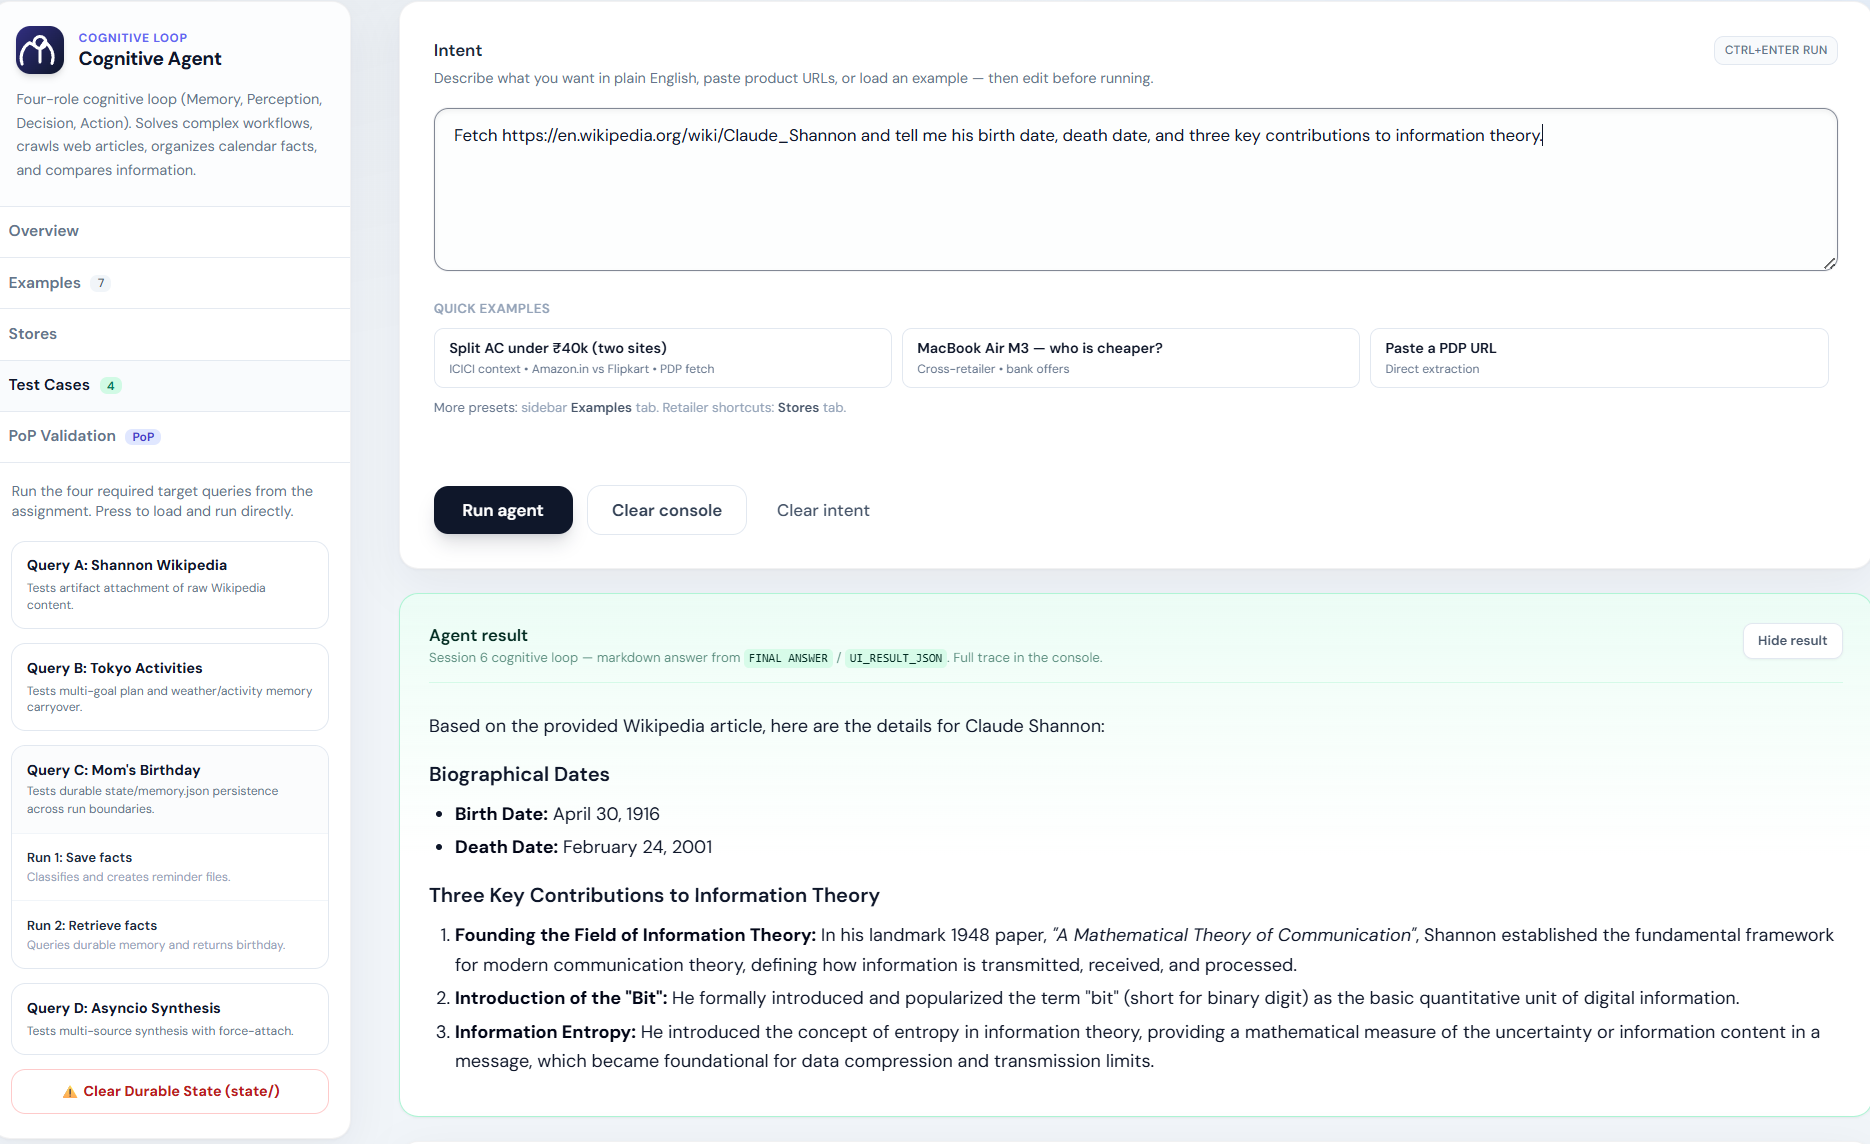
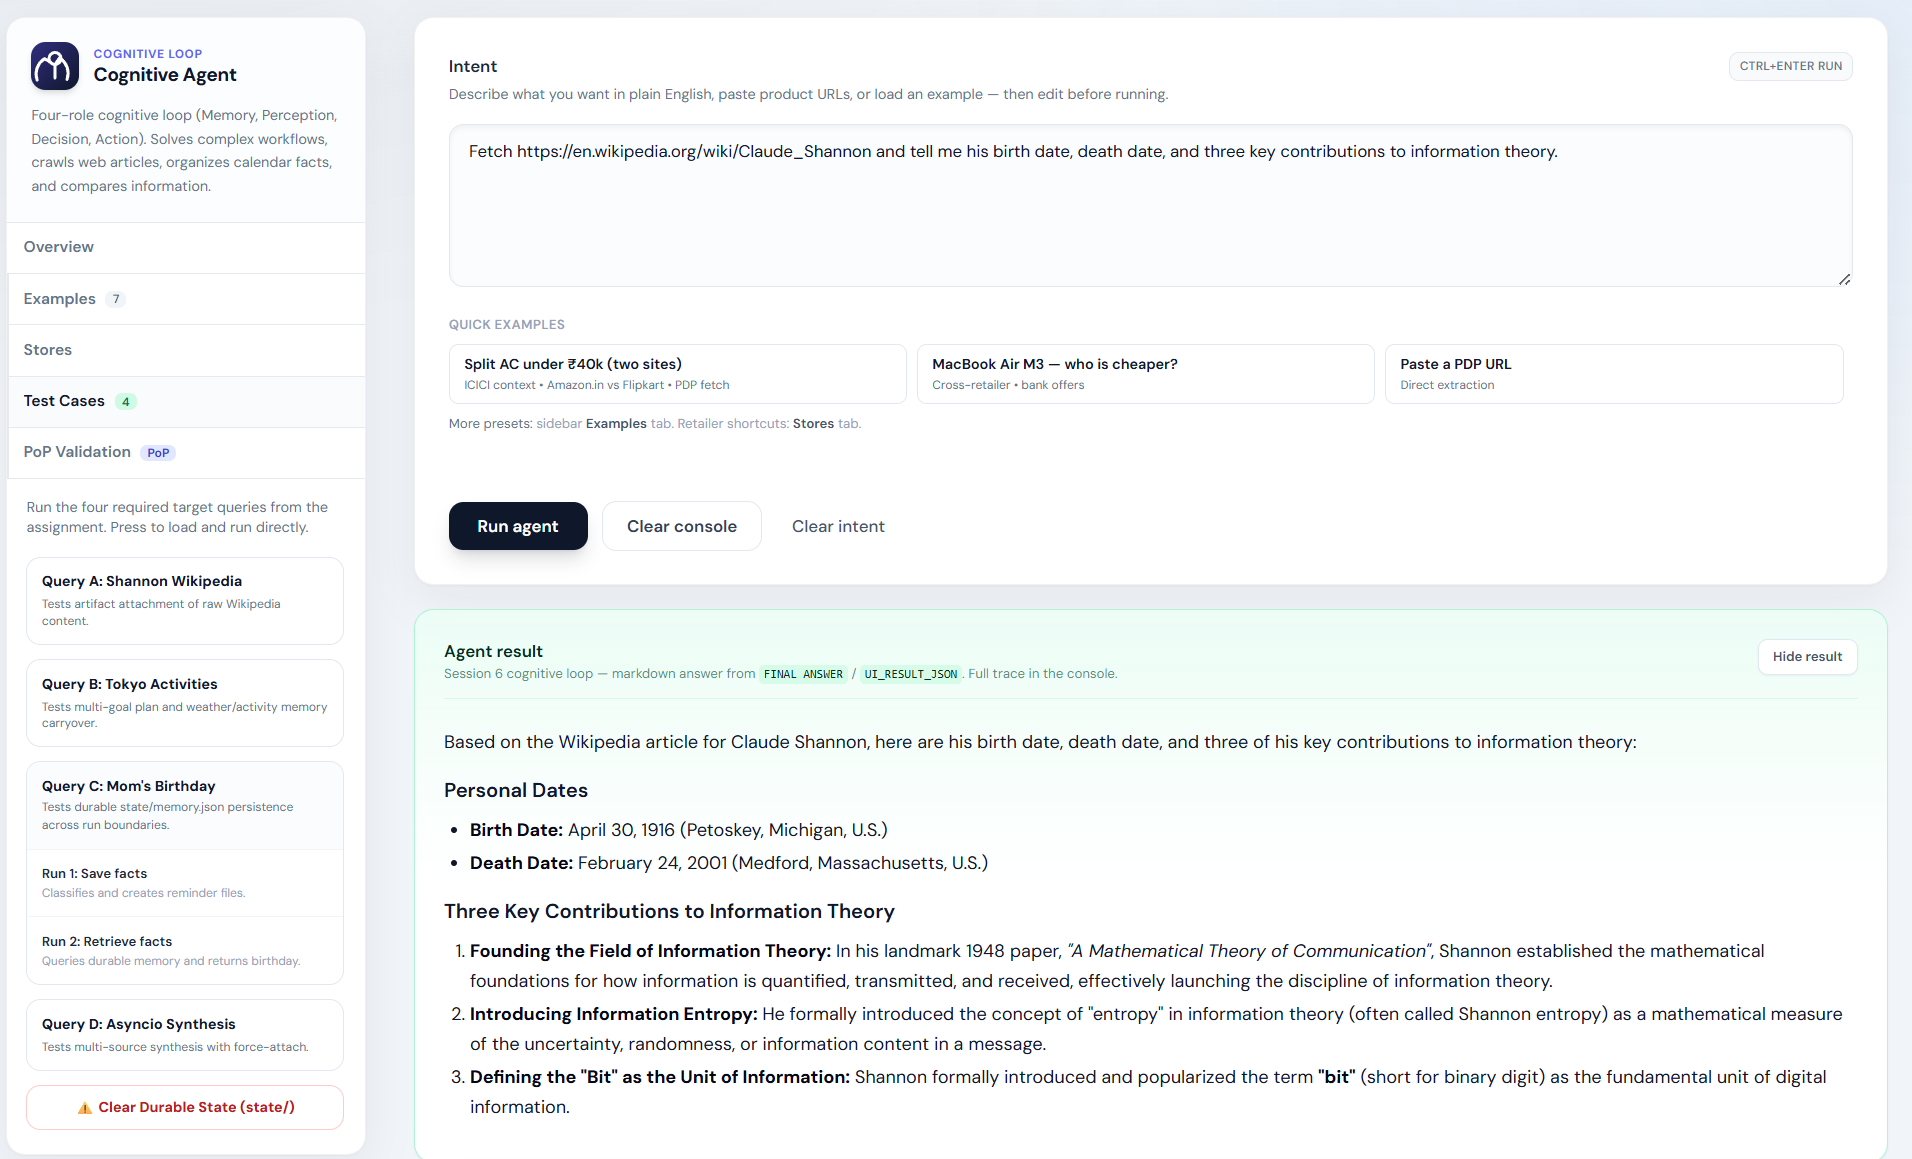
new changes

diff --git a/README.md b/README.md
@@ -6,8 +6,10 @@ A general-purpose cognitive agent that combines **multi-source web synthesis**, 
 
 ## Key Highlights & Extensions
 1. **General-Purpose Capabilities**: Goes far beyond simple e-commerce price-shopping. The agent handles general-purpose tasks such as fetching and analyzing Wikipedia pages, discovering family-friendly activities, fetching weather forecasts, saving calendar appointments, and synthesizing multi-source Python development patterns.
-2. **Parallel Proof-of-Prompt (PoP) Validation**: We have integrated a fully concurrent prompt validator in **`validate_prompts_pop.py`**. When triggered, it analyzes both the Perception and Decision prompts against **`prompt_of_prompts.md`** concurrently using thread pools via `asyncio.gather()`, cutting latency in half!
-3. **Advanced Web UI Tab**: A brand-new **"PoP Validation"** sidebar tab has been added to the web UI. It renders real-time criteria checkmarks (✓/✗) for both prompts and provides one-click combined copy buttons designed to easily paste prompts and evaluations directly into your assignment portal.
+2. **Resilient Search & Fetch**: Shared **`search_providers.py`** implements a unified fallback chain — **Tavily → crawl4ai → Gemini live search → DuckDuckGo** for `web_search`, plus **crawl4ai → httpx** for page fetches. **`action.py`** retries directly when MCP fails; **`agent6.py`** runs emergency synthesis if the iteration budget is exhausted.
+3. **Structured Live Logs**: Each iteration prints a readable trace — `[perception]` goals (`[open]` / `[done]`), `[decision]` `TOOL_CALL` or `ANSWER`, `[action]` one-line result — in both CLI and the Web UI dark console (light-gray message text for readability).
+4. **Parallel Proof-of-Prompt (PoP) Validation**: Integrated prompt validator in **`validate_prompts_pop.py`**. Evaluates Perception and Decision prompts against **`prompt_of_prompts.md`** concurrently via `asyncio.gather()`.
+5. **Advanced Web UI Tab**: **"PoP Validation"** sidebar tab renders real-time criteria checkmarks (✓/✗) and one-click copy buttons for assignment submission.
 
 ---
 
@@ -20,9 +22,10 @@ A general-purpose cognitive agent that combines **multi-source web synthesis**, 
 | **Artifacts** | **`artifact_store.py`** | **`ArtifactStore`** — content-addressable **`art:<sha256-prefix>`** (`.bin` + `.json`); reads legacy **`art:*.txt`**; large MCP results offload above **4 KiB** |
 | **Perception** | **`perception.py`** | **`observe(query, hits, history, prior_goals, run_id) → Observation`** — ordered goals; model emits **`artifact_index`** only (no free-form `art:` handles) |
 | **Decision** | **`decision.py`** | **`next_step(...) → DecisionOutput`** — **`answer`** *or* **`tool_call`** (wire format **`DecisionLLMFlat`** → mapped in code) |
-| **Action** | **`action.py`** | **`execute(ToolCall, store=ArtifactStore) → (descriptor, artifact_id?)`** — MCP **stdio** (`mcp_server.py`); **`gemini_live_search`**; blocks **`art:`** in tool arguments |
-| **Config / timeouts** | **`llm_env.py`** | API keys, model list, **`shared_gemini_client()`**, agent timeouts / iteration cap |
-| **Orchestration** | **`agent6.py`** | **`remember(user_query)`** once, then each iteration: **`read → observe → next_step → execute → record_outcome`**; **`history: list[dict]`** |
+| **Action** | **`action.py`** | **`execute(ToolCall, store, fallback_query=…) → (descriptor, artifact_id?)`** — MCP **stdio**; direct **`search_providers`** fallback when MCP fails; **`gemini_live_search`** for explicit INR shopping checks; blocks **`art:`** in tool arguments |
+| **Search / fetch** | **`search_providers.py`** | **`web_search_with_fallbacks()`** (Tavily → crawl4ai → Gemini → DDG); **`httpx_plain_fetch`**; **`enrich_tool_call()`** auto-fills empty tool args from user query + goal |
+| **Config / timeouts** | **`llm_env.py`** | API keys, model list, **`shared_gemini_client()`**, agent timeouts / iteration cap (default **3** iterations, **60s** LLM step) |
+| **Orchestration** | **`agent6.py`** | **`remember(user_query)`** once, then **`read → observe → next_step → execute → record_outcome`**; structured iteration logs; emergency rescue on max iterations; **`history: list[dict]`** |
 
 **Web UI:** **`app.py`** — FastAPI, **`GET /`**, **`POST /run-agent`**, **`GET /stream-logs`** (SSE). One run at a time → **429** if busy. Successful final answers also emit **`[UI_RESULT_JSON]`** for the markdown result panel in **`templates/index.html`**.
 
@@ -75,14 +78,14 @@ TAVILY_API_KEY=
 # Optional tuning:
 AGENT_MAX_ITERATIONS=3
 AGENT_RUN_MAX_SECONDS=900
-AGENT_LLM_STEP_TIMEOUT_SEC=120
+AGENT_LLM_STEP_TIMEOUT_SEC=60
 ```
 
 - **`GEMINI_MODEL` / `GEMINI_MODELS`**: model IDs; extra comma-separated IDs are **fallbacks** only.
-- **`TAVILY_API_KEY`**: optional; search can fall back to DuckDuckGo when Tavily is unavailable or over cap.
+- **`TAVILY_API_KEY`**: primary search provider; if unavailable or over cap, falls back through crawl4ai → Gemini live search → DuckDuckGo (see **Search & fetch providers** below).
 - **`AGENT_MAX_ITERATIONS`**: max perceive→decide→act loops (default **3**, clamped 1–50).
 - **`AGENT_RUN_MAX_SECONDS`**: wall-clock cap for **`app.py`** agent jobs (default **900**).
-- **`AGENT_LLM_STEP_TIMEOUT_SEC`**: budget for each Perception / Decision LLM call.
+- **`AGENT_LLM_STEP_TIMEOUT_SEC`**: budget for each Perception / Decision LLM call (default **60**).
 
 ---
 
@@ -102,7 +105,30 @@ On startup the loop **always** calls **`memory.remember(..., source="user_query"
 uv run uvicorn app:app --host 0.0.0.0 --port 8000
 ```
 
-Open **http://127.0.0.1:8000/** — **Run agent**, watch **Live console**; formatted answers appear in **Agent result** when **`>>> FINAL ANSWER <<<`** / **`[UI_RESULT_JSON]`** are emitted.
+Open **http://127.0.0.1:8000/** — **Run agent**, watch **Live console** (structured iteration trace); formatted answers appear in **Agent result** when **`>>> FINAL ANSWER <<<`** / **`[UI_RESULT_JSON]`** are emitted.
+
+### Batch test runner (all four queries)
+
+```bash
+uv run python run_and_capture.py
+```
+
+Cleans workspace, runs Queries A–D in one process (warm MCP), writes per-query logs under **`logs/`**, and prints a timing summary.
+
+---
+
+## Search & fetch providers (`search_providers.py`)
+
+Single source of truth for external data. Used by **`mcp_server.py`**, **`action.py`** (direct fallback), and **`agent6.py`** (emergency rescue).
+
+| Tool | Provider order |
+|------|----------------|
+| **`web_search`** | **1. Tavily** → **2. crawl4ai** (DDG SERP crawl) → **3. Gemini live search** (Google grounding) → **4. DuckDuckGo** (library + httpx HTML scrape) |
+| **`fetch_url` / `fetch_urls`** | **1. crawl4ai** (warm browser pool in MCP) → **2. httpx** plain fetch |
+
+- Empty `web_search` args are auto-filled from the user query and active goal via **`enrich_tool_call()`**.
+- Tavily/DDG usage is tracked in **`usage.json`** (monthly cap **950** calls on Tavily).
+- MCP verbose traces (`[MCP] -->`, fetch previews) log at **DEBUG**; iteration summary lines log at **INFO**.
 
 ---
 
@@ -117,7 +143,11 @@ Open **http://127.0.0.1:8000/** — **Run agent**, watch **Live console**; forma
 ### Clean slate (assignment / grading)
 
 ```bash
-rm -rf state/
+# Manual
+rm -rf state/ sandbox/ .crawl4ai/ usage.json
+
+# Or use the batch runner helper (also clears __pycache__)
+uv run python -c "from run_and_capture import clean_workspace; clean_workspace()"
 ```
 
 The next run recreates directories as needed.
@@ -126,23 +156,49 @@ The next run recreates directories as needed.
 
 ## Expected console patterns (current code)
 
-Illustrative lines you should see (exact wording varies by model and tools):
+Each iteration is grouped under a header. Example:
+
+```text
+─── iter 1 ───
+[perception]    [open] Find 3 family-friendly things to do in Tokyo
+                [open] Check Saturday's weather in Tokyo
+                [open] Choose the most appropriate activity given the weather
+[decision]      TOOL_CALL: web_search({"query": "family-friendly things to do in Tokyo this weekend"})
+[action]        → [3 results returned, descriptors recorded]
+
+─── iter 2 ───
+[perception]    [done] Find 3 family-friendly things to do in Tokyo
+                [open] Check Saturday's weather in Tokyo
+                ...
+[decision]      TOOL_CALL: fetch_url({"url": "https://wttr.in/Tokyo?format=3&Saturday"})
+[action]        → Saturday forecast: patchy rain, 18C
+
+─── iter 3 ───
+[decision]      ANSWER: Given Saturday's patchy rain forecast, ...
+[done] all 3 goals satisfied
+>>> FINAL ANSWER <<<
+```
+
+Other lines you may see:
 
 - **`[memory.remember]`** — after classification of the raw user query (`kind=`, `keywords=`).
-- **`[Iteration i/N]`** — **`N`** from **`AGENT_MAX_ITERATIONS`** (Web UI uses the same loop).
-- **`[memory.read] K ranked hits`** — keyword-ranked **`MemoryItem`** pool.
-- **`[done=true|false] …`** — goal **`text`** from **`Observation`**; optional **`attach=art:…`**.
-- **`[decision] ANSWER recorded`** — partial answer for the current goal; Perception marks **`done`** on a later iteration using history.
-- **`-> TOOL_CALL …`** then MCP previews — tool execution; **`record_outcome`** writes episodic memory with optional **`artifact_id`** (content-addressable **`art:<sha256-prefix>`** for large payloads).
-- **`>>> FINAL ANSWER <<<`** — when all goals done (last **`answer`** in history) or after **max-iteration** markdown wrap-up.
+- **`Query:`** / **`run_id=`** — once at loop start (**`AGENT_MAX_ITERATIONS`** default **3**).
+- **`[emergency]`** — rescue searches + synthesis when max iterations hit without a user-facing answer.
+- **`>>> FINAL ANSWER <<<`** — all goals done, synthesis answer, or emergency/best-effort wrap-up.
 
-For submissions, **re-run all four queries from a clean `state/`** on your machine and paste **real** terminal transcripts into this README (or an appendix) as required by your instructor.
+For submissions, re-run all four queries from a clean workspace and paste **real** terminal transcripts as required by your instructor. Captured logs below may show an older log format but illustrate successful query outcomes.
 
 ---
 
 ## Four target queries (commands)
 
-Re-run after **`rm -rf state/`** when you need reproducible traces.
+Re-run after cleaning workspace when you need reproducible traces:
+
+```bash
+uv run python -c "from run_and_capture import clean_workspace; clean_workspace()"
+```
+
+Or delete **`state/`** only between Query C Run 1 and Run 2.
 
 ### Query A — Shannon Wikipedia (artifact attach)
 
@@ -190,7 +246,11 @@ Expect: **`web_search`** → fetches per URL (or **`fetch_urls`**) → artifacts
 
 ## MCP server
 
-**`mcp_server.py`** — stdio tools (**`web_search`**, **`fetch_url`**, **`fetch_urls`**, **`query_database`**, **`analyze_image_url`**, sandbox file tools, **`get_time`**, **`currency_convert`**, …). Requires matching **`uv`** deps (**`crawl4ai`**, Tavily/DDG stack as configured).
+**`mcp_server.py`** — stdio tools (**`web_search`**, **`fetch_url`**, **`fetch_urls`**, **`query_database`**, **`analyze_image_url`**, sandbox file tools, **`get_time`**, **`currency_convert`**, …).
+
+- **`web_search`**: delegates to **`search_providers.web_search_with_fallbacks()`** with Tavily/DDG usage tracking.
+- **`fetch_url` / `fetch_urls`**: crawl4ai browser pool (parallel batch up to 3 URLs); httpx fallback on crawl failure.
+- Requires matching **`uv`** deps (**`crawl4ai`**, **`tavily`**, **`duckduckgo-search`**, **`google-genai`**).
 
 ---
 
@@ -199,17 +259,22 @@ Expect: **`web_search`** → fetches per URL (or **`fetch_urls`**) → artifacts
 | Path | Role |
 |------|------|
 | **`schemas.py`** | All boundary Pydantic models |
-| **`agent6.py`** | Cognitive loop |
+| **`agent6.py`** | Cognitive loop + structured logs + emergency rescue |
 | **`memory.py`**, **`artifact_store.py`**, **`perception.py`**, **`decision.py`**, **`action.py`** | Four layers + artifact store |
+| **`search_providers.py`** | Search/fetch fallbacks + tool-arg enrichment |
 | **`mcp_server.py`** | MCP tool implementations |
-| **`app.py`**, **`templates/index.html`** | Web UI + SSE |
+| **`app.py`**, **`templates/index.html`** | Web UI + SSE (readable log colors on dark console) |
 | **`llm_env.py`** | Env-driven LLM client + timeouts |
+| **`run_and_capture.py`** | Batch query runner + workspace cleanup |
+| **`validate_prompts_pop.py`** | PoP prompt validation (parallel) |
 
 ---
 
 ## Real Captured Terminal Logs (Four Required Queries)
 
-Below are the complete, real terminal outputs of the four target queries, captured from a clean state.
+> **Note:** Logs below were captured before the structured `[perception]` / `[decision]` / `[action]` iteration format. Current runs use `─── iter N ───` headers and one-line action summaries. Outcomes and tool usage remain representative.
+
+Below are complete terminal outputs of the four target queries, captured from a clean state.
 
 <details>
 <summary><b>Query A — Shannon Wikipedia (artifact attach)</b></summary>
